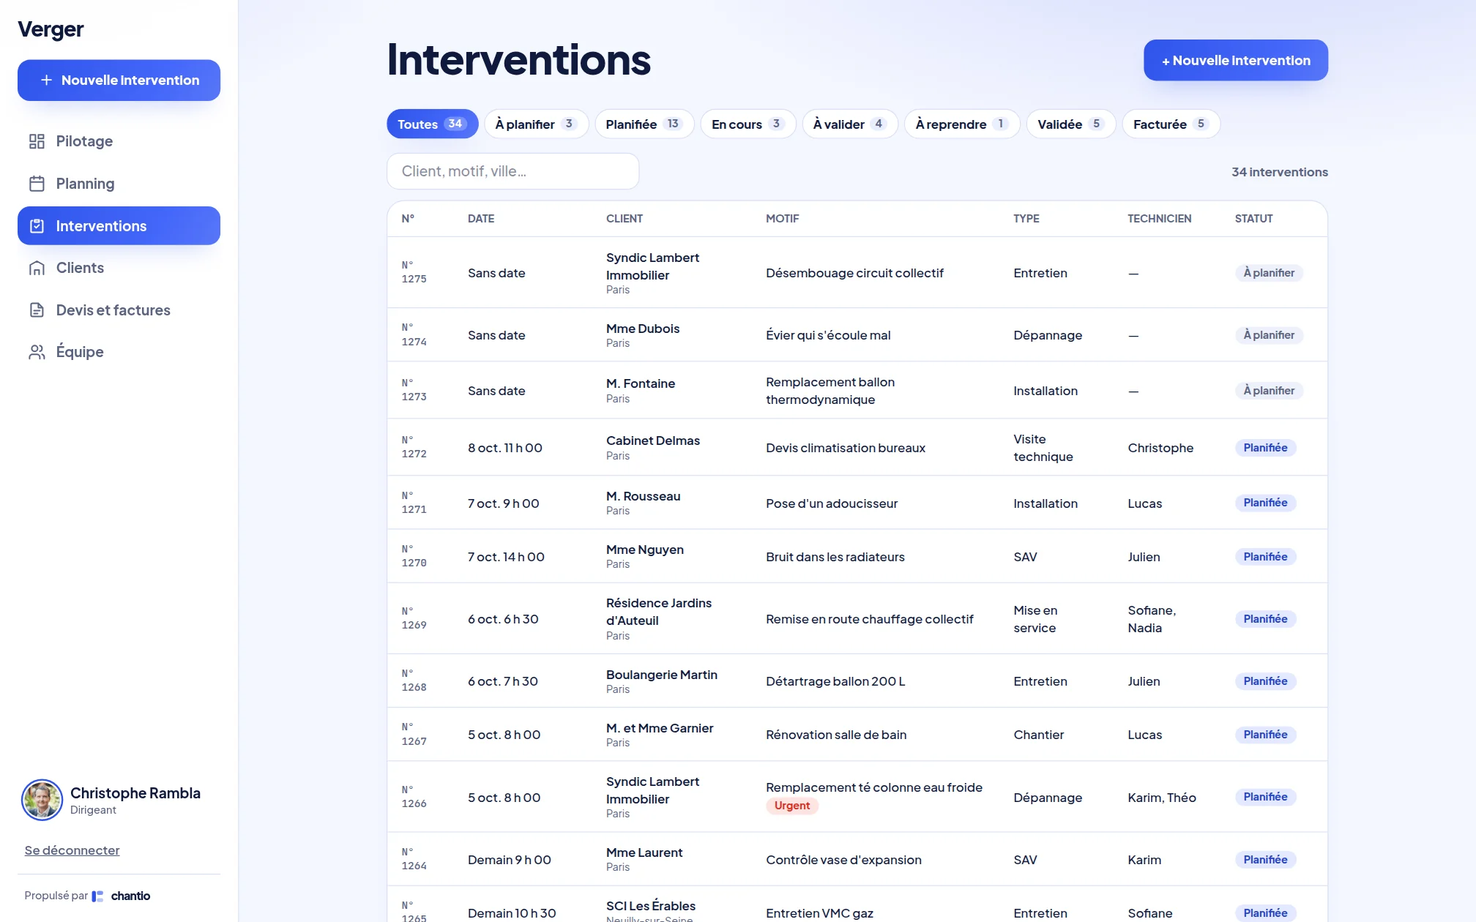
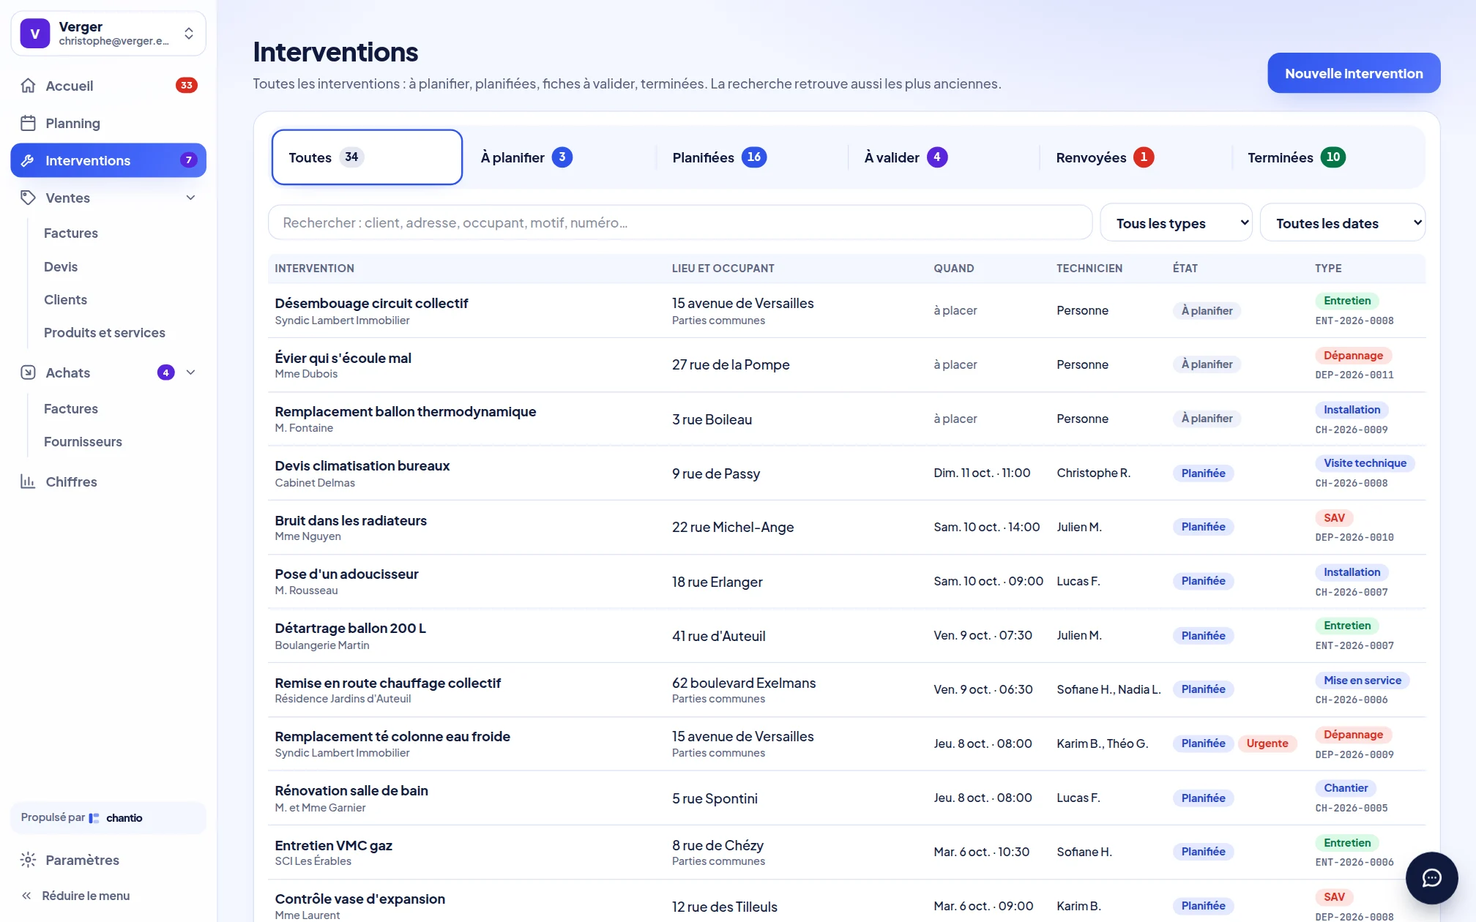
Site vitrine : nouvelles captures du bureau et section Nouveautés
Accueil avec l'équipe du jour, Ventes, Achats, Mon année et contrats
d'entretien dans le MacBook ; huit onglets du bureau ; bento des
nouveautés avec recadrages ; textes du hero et du circuit mis à jour.
Captures faites sur une base locale avec des données fictives.

Claude-Session: https://claude.ai/code/session_012BJYX1W4JjkWkiG6Ckav5F

diff --git a/apps/web/public/site.html b/apps/web/public/site.html
@@ -407,6 +407,40 @@ section.tint{background:var(--grad-soft);overflow-x:clip}
   @keyframes drift{50%{translate:0 18px}}
 }
 @media (max-width:700px){.deco .b2{display:none}.hero-phone{width:32%}section.vivid{margin-top:56px}}
+
+/* v9 : nouveautés (bento) */
+header.top nav a{white-space:nowrap}
+@media (max-width:1180px){.top nav{gap:14px}.top nav a{font-size:14px}}
+.newpill{display:inline-flex;align-items:center;gap:10px;align-self:flex-start;padding:6px 14px 6px 6px;border-radius:999px;background:#fff;border:1px solid var(--line);font-size:14px;font-weight:600;color:var(--fg);box-shadow:0 8px 20px -14px var(--glow);text-decoration:none}
+.newpill b{background:var(--grad);color:#fff;font-size:12px;letter-spacing:.04em;padding:4px 10px;border-radius:999px}
+.newpill:hover{border-color:var(--cobalt)}
+.bento{display:grid;grid-template-columns:repeat(6,minmax(0,1fr));gap:20px}
+.bx{position:relative;grid-column:span 2;background:var(--surface);border:1px solid var(--line);border-radius:26px;padding:28px 28px 0;display:flex;flex-direction:column;gap:10px;overflow:hidden;transition:transform .35s ease,box-shadow .35s ease}
+.bx:hover{transform:translateY(-4px);box-shadow:0 28px 48px -30px rgba(16,26,61,.5)}
+.bx.w3{grid-column:span 3}.bx.w4{grid-column:span 4}.bx.w6{grid-column:span 6}
+.bx.tint{background:linear-gradient(160deg,#FFFFFF 0%,#EEF2FF 100%)}
+.bx .tg{display:inline-flex;align-self:flex-start;font:700 12px var(--mono);letter-spacing:.05em;color:var(--cobalt);background:var(--soft);padding:5px 10px;border-radius:8px}
+.bx .tg.n{background:var(--grad);color:#fff}
+.bx h3{font-size:22px;font-weight:800;line-height:1.2}
+.bx p{color:var(--mut);font-size:15px;max-width:52ch}
+.bx .win{margin-top:auto;padding-top:18px}
+.bx .win div{border-radius:14px 14px 0 0;border:1px solid var(--line);border-bottom:0;background:#fff;box-shadow:0 -10px 40px -24px rgba(16,26,61,.45);overflow:hidden}
+.bx .win div::before{content:"";display:block;height:22px;background:#F3F5FC radial-gradient(circle at 14px 11px,#FF6B6B 3.5px,transparent 4px),radial-gradient(circle at 28px 11px,#FFC145 3.5px,transparent 4px),radial-gradient(circle at 42px 11px,#3DD68C 3.5px,transparent 4px);background-color:#F3F5FC;border-bottom:1px solid var(--line)}
+.bx .win div{height:clamp(220px,22vw,310px)}
+.bx.w4 .win div{height:clamp(240px,26vw,360px)}
+.bx .win img{display:block;width:100%;height:calc(100% - 23px);object-fit:cover;object-position:left top;transition:transform 1.2s cubic-bezier(.2,.7,.2,1)}
+.bx:hover .win img{transform:scale(1.03)}
+.bx.plain{padding-bottom:28px;justify-content:flex-start}
+.bx .ic{width:46px;height:46px;border-radius:14px;background:var(--grad);display:flex;align-items:center;justify-content:center;box-shadow:0 12px 24px -12px var(--glow);margin-bottom:6px}
+.bx .ic svg{stroke:#fff}
+.bx ul{list-style:none;padding:0;margin:6px 0 0;display:flex;flex-direction:column;gap:6px;font-size:14px;color:var(--fg)}
+.bx ul li{display:flex;gap:8px;align-items:flex-start}.bx ul li::before{content:"";flex:0 0 7px;height:7px;margin-top:7px;border-radius:3px;background:var(--cobalt)}
+.kpis{display:grid;grid-template-columns:repeat(4,minmax(0,1fr));gap:16px;margin-top:36px}
+.kpis div{background:rgba(255,255,255,.12);border:1px solid rgba(255,255,255,.22);border-radius:18px;padding:18px 20px;color:#fff}
+.kpis b{display:block;font-size:30px;font-weight:800;letter-spacing:-.02em}
+.kpis span{font-size:14px;color:rgba(255,255,255,.82)}
+@media (max-width:980px){.bento{grid-template-columns:repeat(2,minmax(0,1fr))}.bx,.bx.w3,.bx.w4{grid-column:span 2}.bx.half{grid-column:span 1}.kpis{grid-template-columns:repeat(2,minmax(0,1fr))}}
+@media (max-width:600px){.bento{grid-template-columns:minmax(0,1fr)}.bx,.bx.w3,.bx.w4,.bx.w6,.bx.half{grid-column:auto}.bx{padding:22px 22px 0}.bx.plain{padding-bottom:22px}.tabs{flex-wrap:nowrap;overflow-x:auto;scrollbar-width:none;margin-inline:-16px;padding-inline:16px}.tabs button{flex:0 0 auto}}
 </style>
 
 <svg width="0" height="0" style="position:absolute" aria-hidden="true">
@@ -421,8 +455,8 @@ section.tint{background:var(--grad-soft);overflow-x:clip}
       <a href="#accueil" data-go="accueil" data-sec="comment">Comment ça marche</a>
       <a href="#accueil" data-go="accueil" data-sec="images">L'application</a>
       <a href="#accueil" data-go="accueil" data-sec="bureau">Le bureau</a>
+      <a href="#accueil" data-go="accueil" data-sec="nouveautes">Nouveautés</a>
       <a href="#tarifs" data-go="tarifs">Tarifs</a>
-      <a href="#accueil" data-go="accueil" data-sec="questions">Questions</a>
     </nav>
     <div class="actions">
       <a class="btn btn-ghost login" href="/connexion">Accès plateforme</a>
@@ -438,9 +472,9 @@ section.tint{background:var(--grad-soft);overflow-x:clip}
     <div class="deco" aria-hidden="true"><i class="b1"></i><i class="b2"></i><i class="b3"></i></div>
     <div class="wrap hero-grid">
       <div class="intro">
-        <div class="eyebrow pill"><svg width="16" height="16"><use href="#blocs"/></svg>Logiciel de fiches d'intervention</div>
-        <h1>Vos interventions signées, validées et <em>prêtes à facturer le jour même.</em></h1>
-        <p class="lead">Chantio relie le bureau et le terrain. Le technicien complète sa fiche sur mobile en quelques gestes, le client signe sur place, et le bureau reçoit un rapport complet, prêt pour la facturation.</p>
+        <a class="newpill" href="#accueil" data-go="accueil" data-sec="nouveautes"><b>NOUVEAU</b>Achats, contrats et objectifs de l'année →</a>
+        <h1>Toute votre entreprise du bâtiment, <em>du devis au paiement.</em></h1>
+        <p class="lead">Chantio relie le bureau et le terrain. Vous chiffrez, planifiez l'équipe, le technicien fait signer sa fiche sur son téléphone, et la facture part le jour même. Achats, contrats et chiffres de l'année suivent, sans rien ressaisir.</p>
         <div class="ctas">
           <a class="btn btn-main" href="#inscription" data-go="inscription">Démarrer l'essai gratuit</a>
           <a class="btn btn-ghost" href="#accueil" data-go="accueil" data-sec="images">Découvrir l'application</a>
@@ -453,7 +487,7 @@ section.tint{background:var(--grad-soft);overflow-x:clip}
       </div>
       <div class="devices" aria-label="Chantio sur ordinateur et sur téléphone">
         <div class="mac">
-          <div class="lid"><div class="scr"><img class="on" src="img/web-dash.webp?v=8" width="2016" height="1260" alt="Le tableau de bord du bureau : interventions par statut, fiches à valider et équipe en direct"></div></div>
+          <div class="lid"><div class="scr"><img class="on" src="img/web-accueil.webp?v=9" width="2016" height="1260" alt="L'accueil du bureau : la carte de l'équipe du jour, la journée de chaque technicien et les choses à faire rangées en cases"></div></div>
           <div class="base"></div>
         </div>
         <div class="iphone hero-phone" id="heroPhone">
@@ -466,7 +500,7 @@ section.tint{background:var(--grad-soft);overflow-x:clip}
           </div>
         </div>
         <div class="float f1"><div class="dot" style="background:#D1FADF;color:#027A48"><svg width="18" height="18"><use href="#ok"/></svg></div><div>Fiche signée à 10h42<small>Rapport envoyé au bureau</small></div></div>
-        <div class="float f2"><div class="dot" style="background:#E6ECFE;color:#2F54EB"><svg width="18" height="18" viewBox="0 0 24 24" fill="none" stroke="currentColor" stroke-width="2.4" stroke-linecap="round"><path d="M4 19V9M10 19V5M16 19v-7M22 19H2"/></svg></div><div>CO mesuré : 4 ppm<small>Conforme</small></div></div>
+        <div class="float f2"><div class="dot" style="background:#E6ECFE;color:#2F54EB"><svg width="18" height="18" viewBox="0 0 24 24" fill="none" stroke="currentColor" stroke-width="2.4" stroke-linecap="round"><path d="M12 21s-7-6.2-7-11.5A7 7 0 0 1 19 9.5C19 14.8 12 21 12 21Z"/><circle cx="12" cy="9.5" r="2.5"/></svg></div><div>Karim est sur place<small>Équipe en direct sur la carte</small></div></div>
       </div>
     </div>
   </section>
@@ -483,14 +517,14 @@ section.tint{background:var(--grad-soft);overflow-x:clip}
 
   <section class="block vivid" id="comment">
     <div class="wrap">
-      <div class="head2 rv"><div class="eyebrow">Comment ça marche</div><h2>De la planification à la facture, un seul circuit.</h2><p>Chaque intervenant dispose exactement des informations dont il a besoin.</p></div>
+      <div class="head2 rv"><div class="eyebrow">Comment ça marche</div><h2>Du devis au paiement, un seul circuit.</h2><p>Chaque intervenant dispose exactement des informations dont il a besoin.</p></div>
       <div class="steps rv">
-        <div class="step"><div class="num">1 · AU BUREAU</div><h3>Planifier</h3><p class="mut">L'intervention est créée en quelques clics et transmise instantanément sur le mobile du technicien.</p>
-          <ul><li>Planning hebdomadaire de l'équipe</li><li>Historique des clients et des équipements</li><li>Import de votre fichier clients Excel</li></ul></div>
+        <div class="step"><div class="num">1 · AU BUREAU</div><h3>Chiffrer et planifier</h3><p class="mut">Le devis signé devient une intervention en un clic, placée au planning et transmise aussitôt sur le mobile du technicien.</p>
+          <ul><li>Devis avec votre catalogue, coefficients et marges</li><li>Planning de l'équipe à la demi-journée</li><li>Clients, syndics, immeubles et occupants</li></ul></div>
         <div class="step"><div class="num">2 · SUR LE CHANTIER</div><h3>Intervenir</h3><p class="mut">Une fiche guidée en quatre étapes : constat, mesures, pièces posées, signature.</p>
           <ul><li>Photos avant et après</li><li>Mesures de combustion contrôlées</li><li>Temps passé et fournitures</li></ul></div>
-        <div class="step"><div class="num">3 · EN FIN DE JOURNÉE</div><h3>Valider et facturer</h3><p class="mut">Le bureau relit la fiche, la valide et la transmet à la facturation.</p>
-          <ul><li>Signature du client sur l'écran</li><li>Rapport PDF à votre en-tête</li><li>Export vers votre logiciel de gestion</li></ul></div>
+        <div class="step"><div class="num">3 · LE JOUR MÊME</div><h3>Facturer et piloter</h3><p class="mut">Le bureau valide la fiche, envoie la facture et suit ce qui reste à encaisser et à payer.</p>
+          <ul><li>Facture à votre en-tête en un clic</li><li>Retards de paiement signalés dès l'accueil</li><li>Factures fournisseurs et objectifs de l'année</li></ul></div>
       </div>
     </div>
   </section>
@@ -526,35 +560,59 @@ section.tint{background:var(--grad-soft);overflow-x:clip}
 
   <section class="block" id="bureau">
     <div class="wrap">
-      <div class="head2 rv"><div class="eyebrow">L'espace bureau</div><h2>Toute l'activité de l'entreprise sur un seul écran.</h2></div>
+      <div class="head2 rv"><div class="eyebrow">L'espace bureau</div><h2>Toute l'activité de l'entreprise sur un seul écran.</h2><p>Huit écrans, un menu simple : Accueil, Planning, Interventions, Ventes, Achats et Chiffres.</p></div>
       <div class="tabs rv" role="tablist" aria-label="Écrans du bureau">
-        <button type="button" role="tab" id="t-dash" aria-selected="true" data-i="0" data-t="Tableau de bord" data-d="Les interventions du jour sur la carte, les fiches à valider et l'équipe en direct.">Tableau de bord</button>
-        <button type="button" role="tab" id="t-plan" aria-selected="false" data-i="1" data-t="Planning" data-d="La semaine de toute l'équipe. Une intervention glissée sur un technicien apparaît aussitôt sur son mobile.">Planning</button>
-        <button type="button" role="tab" id="t-list" aria-selected="false" data-i="2" data-t="Interventions" data-d="Toutes les interventions, filtrées par statut : à planifier, en cours, à valider, validées.">Interventions</button>
-        <button type="button" role="tab" id="t-fiche" aria-selected="false" data-i="3" data-t="Fiche détaillée" data-d="Constat, mesures, temps passé et signature. Un clic pour valider et transmettre à la facturation.">Fiche détaillée</button>
-        <button type="button" role="tab" id="t-devis" aria-selected="false" data-i="4" data-t="Devis et factures" data-d="Devis, factures et relances au même endroit, avec le chiffre d'affaires du mois et l'objectif à atteindre.">Devis et factures</button>
+        <button type="button" role="tab" id="t-dash" aria-selected="true" data-i="0" data-t="Accueil" data-d="La carte de l'équipe du jour, la journée de chaque technicien et, juste dessous, les choses à faire rangées en cases : paiements en retard, fiches à valider, devis à relancer.">Accueil</button>
+        <button type="button" role="tab" id="t-plan" aria-selected="false" data-i="1" data-t="Planning" data-d="Chantiers et dépannages dans la même vue, à la demi-journée. Glissez une intervention : elle apparaît aussitôt sur le téléphone du technicien.">Planning</button>
+        <button type="button" role="tab" id="t-list" aria-selected="false" data-i="2" data-t="Interventions" data-d="À planifier, planifiées, à valider, renvoyées, terminées : chaque compteur filtre la liste, et la recherche retrouve aussi les plus anciennes.">Interventions</button>
+        <button type="button" role="tab" id="t-fiche" aria-selected="false" data-i="3" data-t="Fiche détaillée" data-d="La fiche envoyée par le technicien s'ouvre à côté de la liste. Vous la relisez, la validez ou la renvoyez en un clic.">Fiche détaillée</button>
+        <button type="button" role="tab" id="t-devis" aria-selected="false" data-i="4" data-t="Ventes" data-d="Devis et factures avec leurs compteurs, relances, réponses aux appels d'offres et marge de chaque chantier.">Ventes</button>
+        <button type="button" role="tab" id="t-achats" aria-selected="false" data-i="5" data-t="Achats" data-d="Les factures fournisseurs importées ou photographiées sont lues toutes seules. Vous approuvez, planifiez le paiement et suivez ce qui reste à payer.">Achats</button>
+        <button type="button" role="tab" id="t-annee" aria-selected="false" data-i="6" data-t="Mon année" data-d="Où vous en êtes face à l'objectif, la prévision de fin d'année et le résultat théorique, mois par mois. Votre fichier Excel de suivi s'importe en un geste.">Mon année</button>
+        <button type="button" role="tab" id="t-contrats" aria-selected="false" data-i="7" data-t="Contrats" data-d="Immeubles des syndics et bailleurs, contrats d'entretien, visites à planifier et renouvellements à préparer avant le préavis.">Contrats</button>
       </div>
       <div class="deskshow rv" role="tabpanel" aria-labelledby="t-dash" id="webpanel">
         <div class="mac wide">
           <div class="lid"><div class="scr" id="deskScr">
-            <img class="on" src="img/web-dash.webp?v=8" width="2016" height="1260" alt="Tableau de bord" loading="lazy">
-            <img src="img/web-planning.webp?v=8" width="2016" height="1260" alt="Planning de la semaine" loading="lazy">
-            <img src="img/web-interventions.webp?v=8" width="2016" height="1260" alt="Liste des interventions" loading="lazy">
-            <img src="img/web-dfiche.webp?v=8" width="2016" height="1260" alt="Fiche d'intervention détaillée" loading="lazy">
-            <img src="img/web-devis.webp?v=8" width="2016" height="1260" alt="Devis et factures : chiffre d'affaires et devis en attente" loading="lazy">
+            <img class="on" src="img/web-accueil.webp?v=9" width="2016" height="1260" alt="L'accueil : carte de l'équipe et choses à faire" loading="lazy">
+            <img src="img/web-planning.webp?v=9" width="2016" height="1260" alt="Planning de la semaine" loading="lazy">
+            <img src="img/web-interventions.webp?v=9" width="2016" height="1260" alt="Liste des interventions" loading="lazy">
+            <img src="img/web-dfiche.webp?v=9" width="2016" height="1260" alt="Fiche d'intervention ouverte dans un volet" loading="lazy">
+            <img src="img/web-devis.webp?v=9" width="2016" height="1260" alt="Mes devis : brouillons, en attente, signés" loading="lazy">
+            <img src="img/web-achats.webp?v=9" width="2016" height="1260" alt="Dépenses fournisseurs" loading="lazy">
+            <img src="img/web-annee.webp?v=9" width="2016" height="1260" alt="Chiffres, mon année : objectif, prévision et résultat" loading="lazy">
+            <img src="img/web-immeubles.webp?v=9" width="2016" height="1260" alt="Immeubles et contrats d'entretien" loading="lazy">
           </div></div>
           <div class="base"></div>
         </div>
-        <div class="txt"><h3 id="webt">Tableau de bord</h3><p class="mut" id="webd">Les interventions du jour sur la carte, les fiches à valider et l'équipe en direct.</p><div class="bar" aria-hidden="true"><i id="deskBar"></i></div></div>
+        <div class="txt"><h3 id="webt">Accueil</h3><p class="mut" id="webd">La carte de l'équipe du jour, la journée de chaque technicien et, juste dessous, les choses à faire rangées en cases : paiements en retard, fiches à valider, devis à relancer.</p><div class="bar" aria-hidden="true"><i id="deskBar"></i></div></div>
       </div>
       <p class="brandnote">Exemple : l'espace de l'entreprise Verger. Chaque entreprise retrouve son logo et ses couleurs.</p>
     </div>
   </section>
 
-  <section class="block" style="padding-top:0">
+
+  <section class="block tint" id="nouveautes">
+    <div class="wrap">
+      <div class="head2 rv"><div class="eyebrow">Nouveautés</div><h2>Bien plus que des fiches : <em>tout le pilotage de l'entreprise.</em></h2><p>Achats, contrats, planning des chantiers, objectifs de l'année. Chaque fonction est née d'une demande d'artisan.</p></div>
+      <div class="bento rv">
+        <article class="bx w4 tint"><span class="tg n">NOUVEAU · ACHATS</span><h3>Vos factures fournisseurs se lisent toutes seules.</h3><p>Importez le PDF ou prenez la facture en photo : fournisseur, montants et échéance sont remplis pour vous. Vous approuvez, contestez ou planifiez le paiement.</p><div class="win"><div><img src="img/zoom-achat.webp?v=9" alt="Une facture fournisseur lue automatiquement, avec son aperçu et le reste à payer" loading="lazy"></div></div></article>
+        <article class="bx"><span class="tg n">NOUVEAU · CHIFFRES</span><h3>Mon année, en un coup d'œil.</h3><p>Objectif, prévision de fin d'année et résultat théorique. Votre fichier Excel de suivi s'importe en un geste.</p><div class="win"><div><img src="img/zoom-annee.webp?v=9" alt="Chiffres, mon année : pourcentage de l'objectif atteint et course à l'objectif" loading="lazy"></div></div></article>
+        <article class="bx w3"><span class="tg">SYNDICS ET ENTRETIEN</span><h3>Immeubles, occupants et contrats d'entretien.</h3><p>Qui commande, qui paie, le gardien, les codes d'accès. Les contrats rappellent les visites et les renouvellements avant la date de préavis.</p><div class="win"><div><img src="img/zoom-contrats.webp?v=9" alt="Immeuble d'un syndic avec son contrat d'entretien et ses prochaines visites" loading="lazy"></div></div></article>
+        <article class="bx w3"><span class="tg">PLANNING</span><h3>Chantiers et dépannages dans la même vue.</h3><p>Chantiers sur plusieurs jours, demi-journées, réserve pour les urgences et charge de chaque technicien.</p><div class="win"><div><img src="img/zoom-planning.webp?v=9" alt="Planning de la semaine par technicien, à la demi-journée" loading="lazy"></div></div></article>
+        <article class="bx w4"><span class="tg">ACCUEIL</span><h3>L'essentiel rangé en cases, pas en liste.</h3><p>Paiements en retard en premier, puis les interventions à placer, les fiches à valider, ce qui reste à facturer et les devis à relancer.</p><div class="win"><div><img src="img/zoom-coupdoeil.webp?v=9" alt="Les choses à faire de la journée rangées en cases" loading="lazy"></div></div></article>
+        <article class="bx"><span class="tg">VENTES</span><h3>Devis et factures qui se suivent.</h3><p>Compteurs cliquables, appels d'offres, coefficients et marges par ouvrage.</p><div class="win"><div><img src="img/zoom-devis.webp?v=9" alt="Mes devis avec leurs compteurs" loading="lazy"></div></div></article>
+        <article class="bx plain half"><div class="ic"><svg width="22" height="22" viewBox="0 0 24 24" fill="none" stroke-width="2" stroke-linecap="round" stroke-linejoin="round"><path d="M3 21h18M5 21V8l7-5 7 5v13"/><path d="M9 21v-5h6v5"/></svg></div><h3>Plusieurs entreprises, un seul compte.</h3><p>Passez d'une société à l'autre depuis le menu. Chaque entreprise garde son équipe, sa numérotation et son en-tête.</p></article>
+        <article class="bx plain half"><div class="ic"><svg width="22" height="22" viewBox="0 0 24 24" fill="none" stroke-width="2" stroke-linecap="round" stroke-linejoin="round"><path d="M4 7h16M4 12h16M4 17h10"/></svg></div><h3>Une numérotation qui parle.</h3><p>DEP pour les dépannages, CH pour les chantiers, ENT pour l'entretien : chacun retrouve son dossier au premier coup d'œil.</p></article>
+        <article class="bx plain"><div class="ic"><svg width="22" height="22" viewBox="0 0 24 24" fill="none" stroke-width="2" stroke-linecap="round" stroke-linejoin="round"><path d="M12 3a3 3 0 0 0-3 3v6a3 3 0 0 0 6 0V6a3 3 0 0 0-3-3Z"/><path d="M19 11a7 7 0 0 1-14 0M12 18v3"/></svg></div><h3>Vos idées, dictées en dix secondes.</h3><p>Une bulle sur chaque écran : vous dictez votre idée et la page concernée est jointe. Chantio évolue avec vous.</p></article>
+      </div>
+    </div>
+  </section>
+
+  <section class="block" >
     <div class="wrap">
       <div class="band rv">
-        <div class="who"><div class="ico"><svg width="26" height="26" viewBox="0 0 24 24" fill="none" stroke="#2F54EB" stroke-width="2" stroke-linecap="round"><path d="M3 21h18M5 21V8l7-5 7 5v13M9 21v-6h6v6"/></svg></div><div class="k">DIRIGEANT</div><h3>Une vision complète de l'activité.</h3><p>Interventions du jour, fiches à valider, montants à facturer : l'essentiel en temps réel, sans papier égaré.</p></div>
+        <div class="who"><div class="ico"><svg width="26" height="26" viewBox="0 0 24 24" fill="none" stroke="#2F54EB" stroke-width="2" stroke-linecap="round"><path d="M3 21h18M5 21V8l7-5 7 5v13M9 21v-6h6v6"/></svg></div><div class="k">DIRIGEANT</div><h3>Une vision complète de l'activité.</h3><p>L'équipe sur la carte, les retards de paiement, les achats et l'objectif de l'année : l'essentiel en temps réel, sans papier égaré.</p></div>
         <div class="who"><div class="ico"><svg width="26" height="26" viewBox="0 0 24 24" fill="none" stroke="#2F54EB" stroke-width="2" stroke-linecap="round"><path d="M4 6h16M4 12h10M4 18h7"/><path d="m15 17 2 2 4-4"/></svg></div><div class="k">CHEF DE CHANTIER</div><h3>Planification et contrôle qualité.</h3><p>Affectation des techniciens, relecture des fiches et traitement des anomalies avant qu'elles n'atteignent le client.</p></div>
         <div class="who"><div class="ico"><svg width="26" height="26" viewBox="0 0 24 24" fill="none" stroke="#2F54EB" stroke-width="2" stroke-linecap="round"><rect x="7" y="2" width="10" height="20" rx="3"/><path d="M11 18h2"/></svg></div><div class="k">TECHNICIEN</div><h3>Une saisie rapide, même avec des gants.</h3><p>Connexion mémorisée sur le téléphone, un écran par étape et une fiche terminée avant de quitter le chantier.</p></div>
       </div>
@@ -603,6 +661,8 @@ section.tint{background:var(--grad-soft);overflow-x:clip}
         <details><summary>Que se passe-t-il en cave ou en sous-sol, sans réseau ?</summary><p>La fiche se remplit intégralement hors connexion, photos et signature comprises. Elle est transmise automatiquement dès le retour du réseau.</p></details>
         <details><summary>Je travaille seul. Chantio est-il adapté ?</summary><p>Oui. La formule Solo réunit le bureau et le terrain dans une seule application, sans étape de validation superflue.</p></details>
         <details><summary>La signature du client est-elle obligatoire ?</summary><p>Non. Si le client est absent ou refuse de signer, la fiche le mentionne et suit son circuit normalement.</p></details>
+        <details><summary>J'ai plusieurs sociétés. Faut-il plusieurs comptes ?</summary><p>Non. Un seul compte suffit : vous passez d'une entreprise à l'autre depuis le menu, chacune avec son équipe, ses clients et sa numérotation.</p></details>
+        <details><summary>Je suis mon activité dans un fichier Excel. Puis-je le garder ?</summary><p>Vous l'importez dans Chiffres › Mon année : Chantio reprend vos objectifs et la production des mois passés, puis complète automatiquement avec vos factures.</p></details>
         <details><summary>Où sont hébergées mes données ?</summary><p>En Europe, avec une sauvegarde quotidienne. Vous pouvez les exporter à tout moment.</p></details>
         <details><summary>Puis-je résilier à tout moment ?</summary><p>Oui. Vous récupérez l'ensemble de vos fiches en PDF et de vos données au format Excel.</p></details>
       </div>
